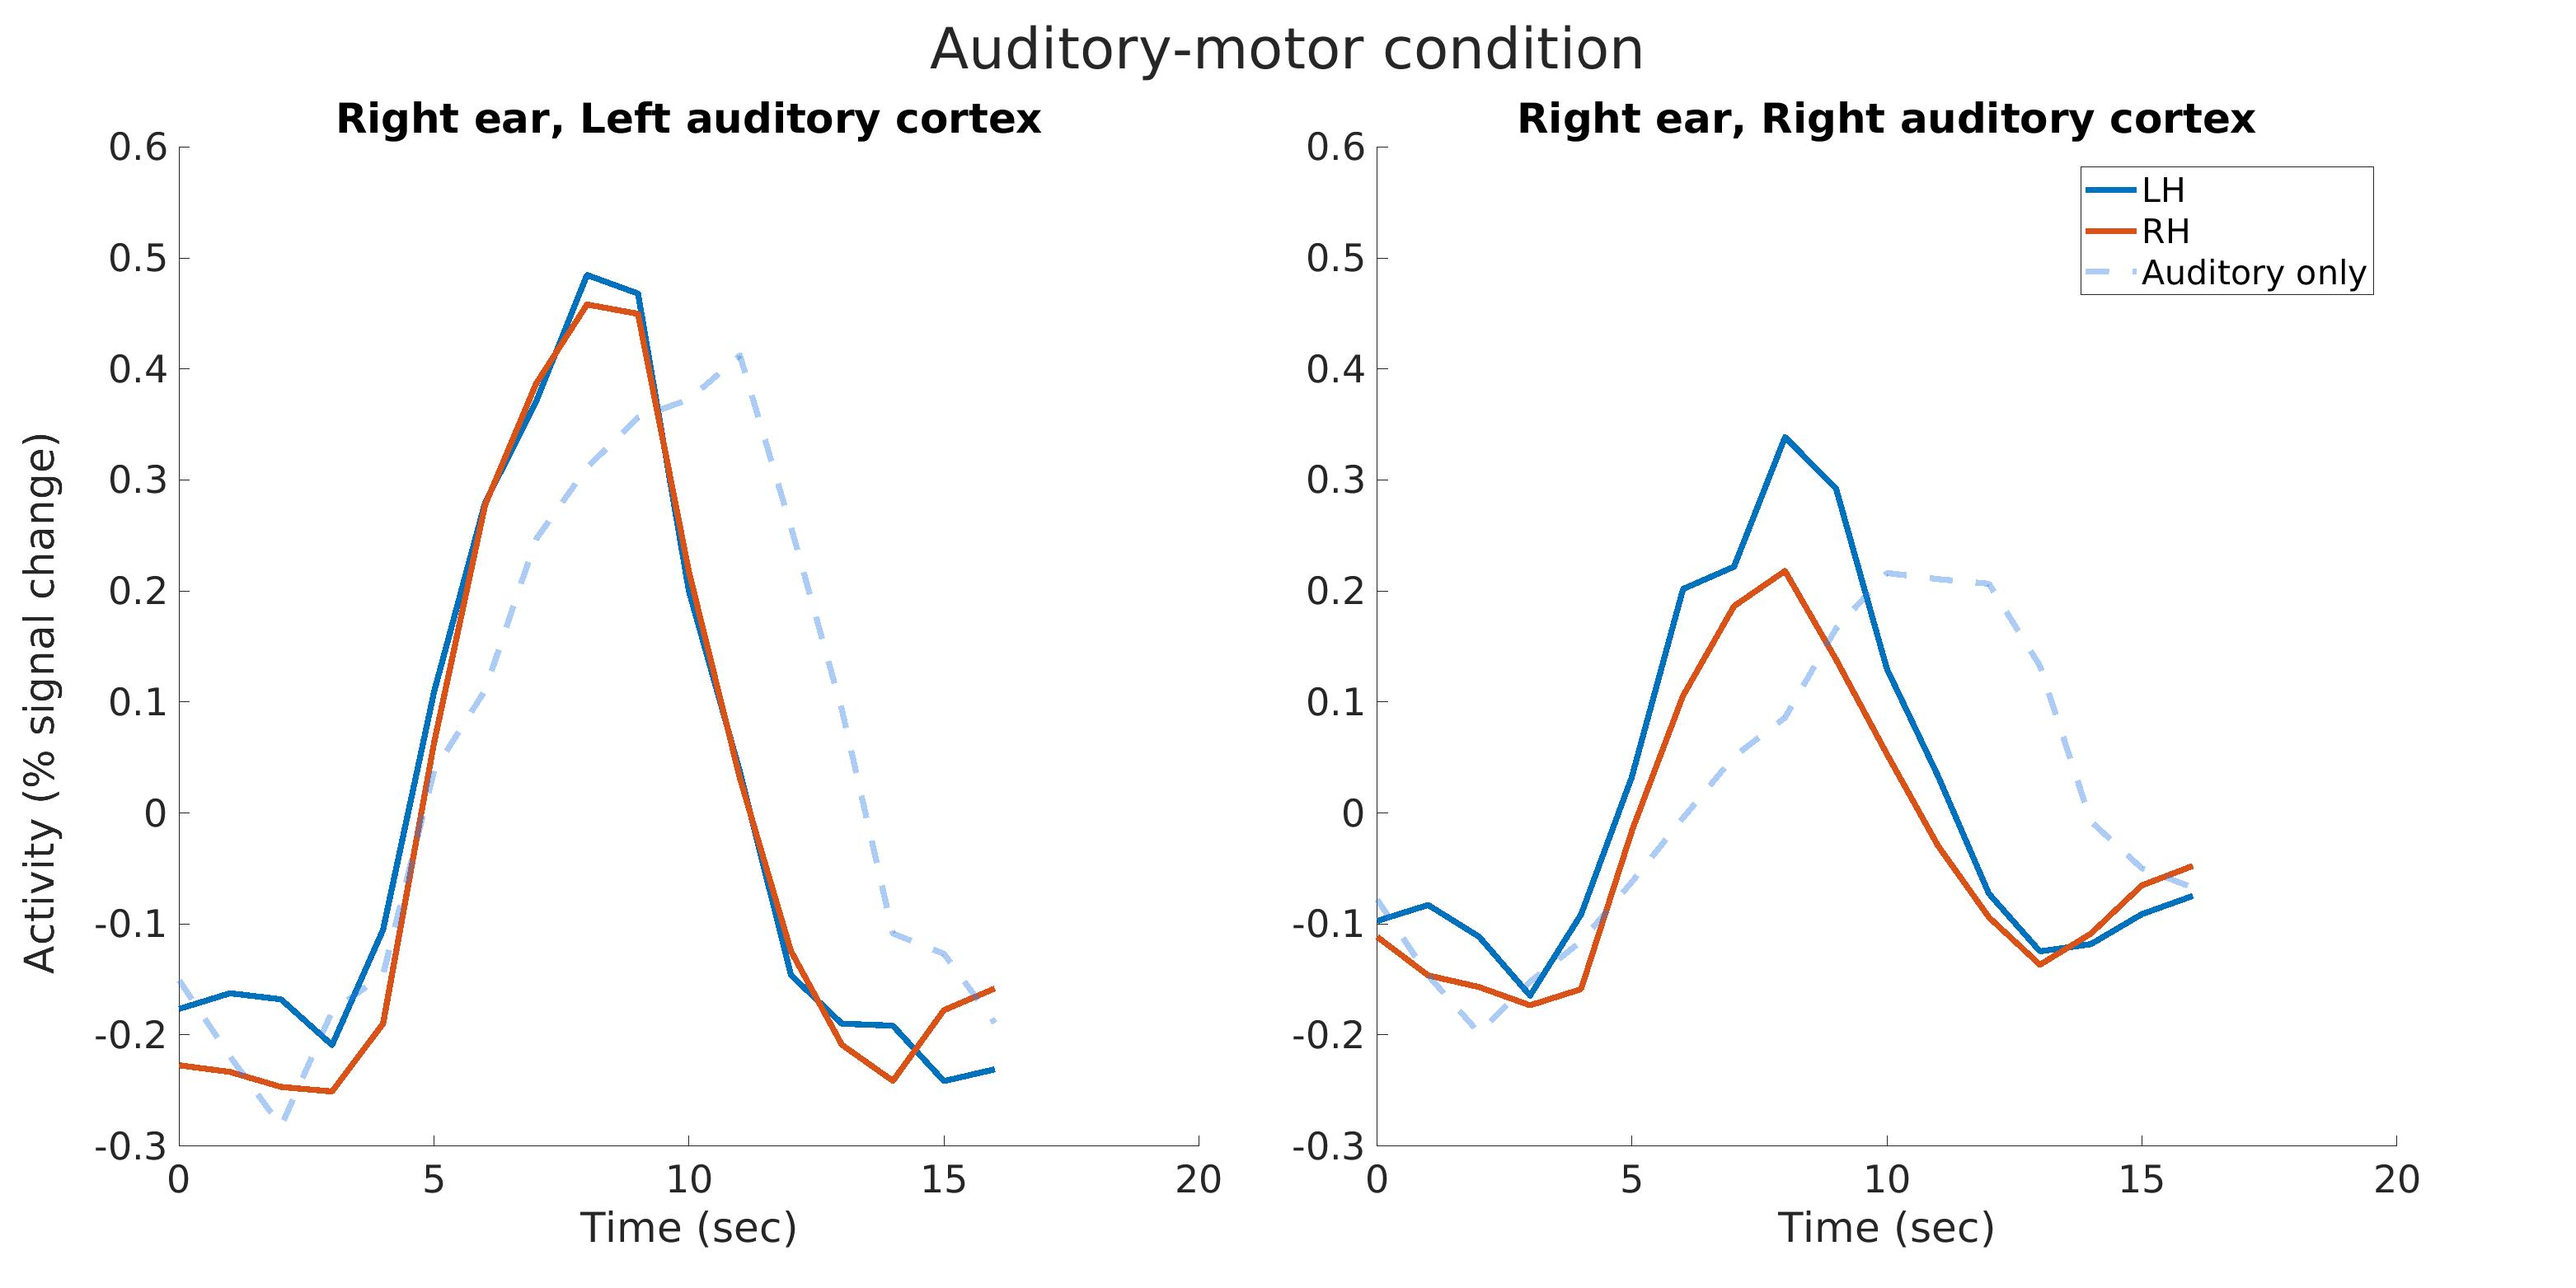
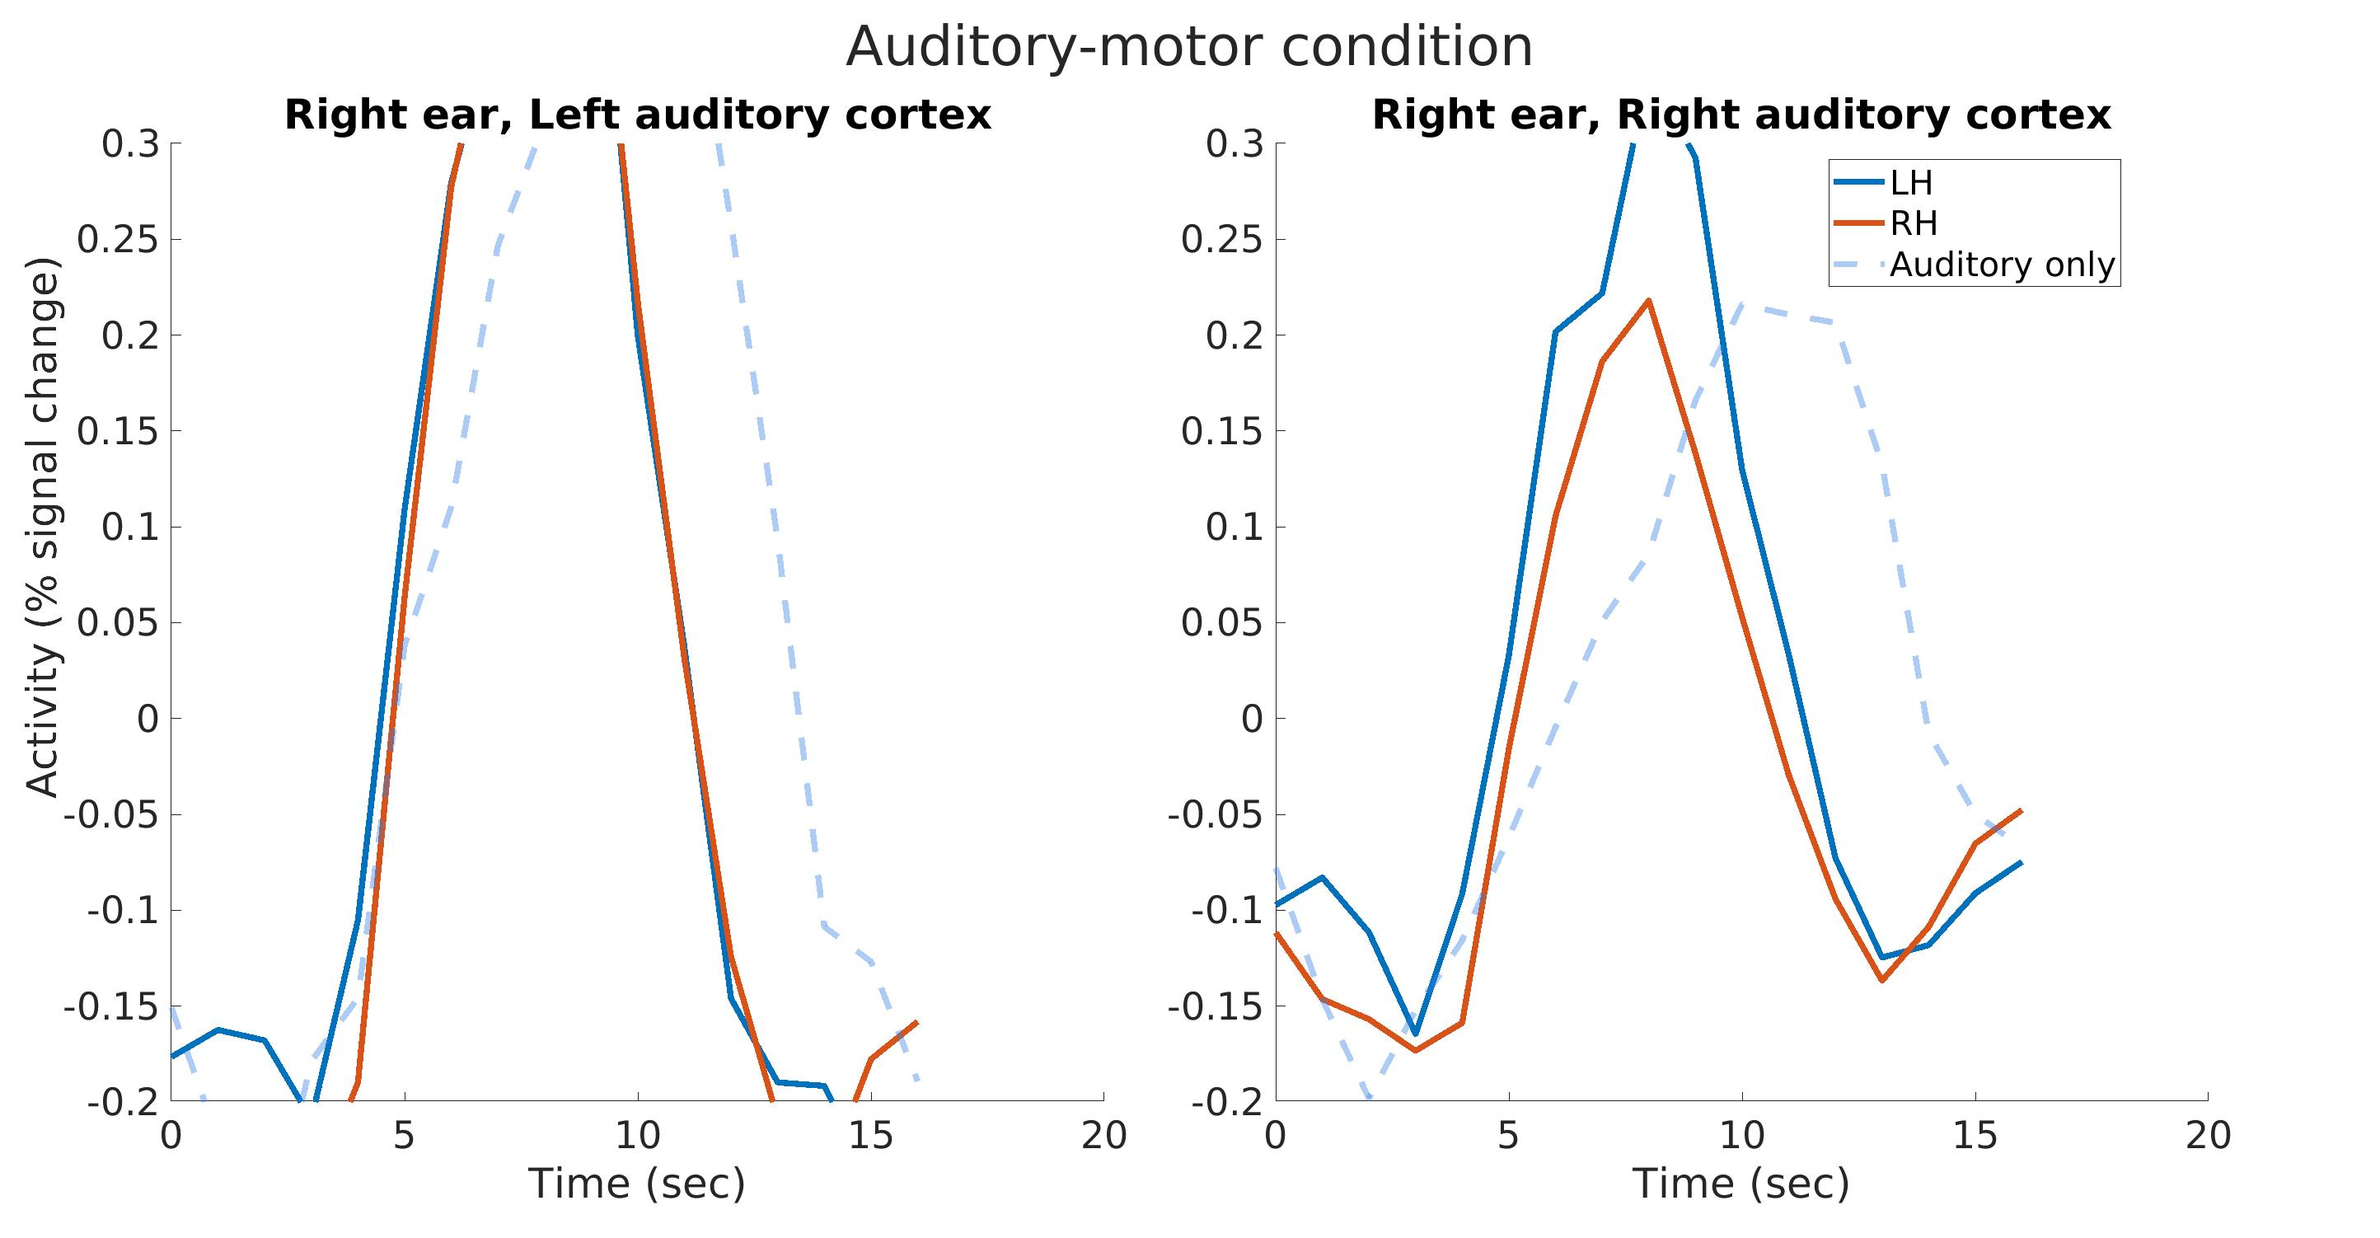
update figures dir (auto)

diff --git a/plotTimeCourseOnePlotSubplots.m b/plotTimeCourseOnePlotSubplots.m
@@ -62,7 +62,7 @@ for i = 1:length(ears)
             % Set the new position of the ylabel
             set(hLabel, 'Position', newPosition);
         end
-        ylim([-0.3 0.6]);
+        ylim([-0.2 0.3]);
         if cortex == "RCortex"
             legend({'LH', 'RH', 'Auditory only'}, 'Location', 'best');
         end
